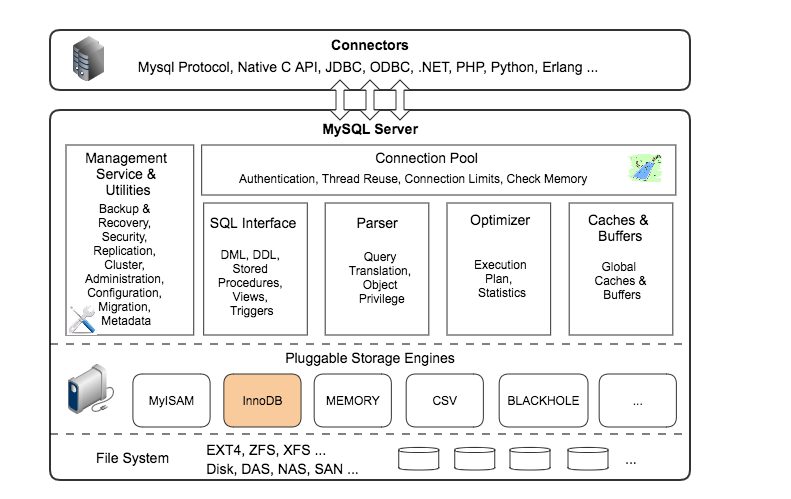
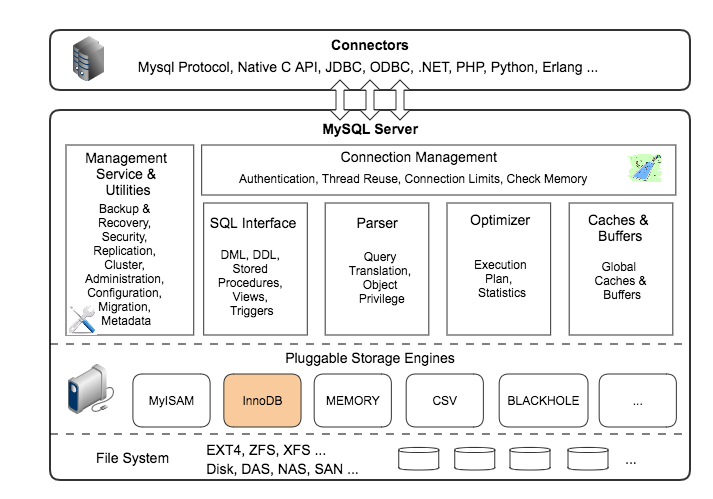
add post mysql-architecture

diff --git a/_posts/2016-06-24-mysql-architecture.md b/_posts/2016-06-24-mysql-architecture.md
@@ -1,0 +1,233 @@
+---
+layout: post
+title: "MySQL的多存储引擎架构"
+description: ""
+category: 
+tags: []
+---
+{% include JB/setup %}
+
+支持多种存储引擎是众所周知的MySQL特性，也是MySQL架构的关键优势之一。如果能够理解MySQL Server与存储引擎之间是怎样通过API交互的，将大大有利于理解MySQL的核心基础架构。本文将首先介绍MySQL的整体逻辑架构，然后分析MySQL的存储引擎API并介绍如何编写自己的MySQL存储引擎。
+
+### MySQL逻辑架构
+
+MySQL作为一个大型的网络程序、数据管理系统，架构非常复杂。下图大致画出了其逻辑架构。
+
+![MySQL Architecture](http://zhaox.github.io/assets/images/MySQL.png)
+
+#### Connectors
+
+MySQL首先是一个网络程序，其在TCP之上定义了自己的[应用层协议](https://dev.mysql.com/doc/internals/en/client-server-protocol.html)。所以要使用MySQL，我们可以编写代码，跟MySQL Server建立TCP连接，之后按照其定义好的协议进行交互。当然这样比较麻烦，比较方便的办法是调用SDK，比如Native C API、JDBC、PHP等各语言MySQL Connector，或者通过ODBC。但通过SDK来访问MySQL，本质上还是在TCP连接上通过MySQL协议跟MySQL进行交互。
+
+#### Connection Management
+
+每一个基于TCP的网络服务都需要管理客户端链接，MySQL也不例外。MySQL会为每一个连接绑定一个线程，之后这个连接上的所有查询都在这个线程中执行。为了避免频繁创建和销毁线程带来开销，MySQL通常会缓存线程或者使用线程池，从而避免频繁的创建和销毁线程。
+
+客户端连接到MySQL后，在使用MySQL的功能之前，需要进行认证，认证基于用户名、主机名、密码。如果用了SSL或者TLS的方式进行连接，还会进行证书认证。
+
+#### SQL Interface
+
+MySQL支持DML（数据操作语言）、DDL（数据定义语言）、存储过程、视图、触发器、自定义函数等多种SQL语言接口。
+
+#### Parser
+
+MySQL会解析SQL查询，并为其创建语法树，并根据数据字典丰富查询语法树，会验证该客户端是否具有执行该查询的权限。创建好语法树后，MySQL还会对SQl查询进行语法上的优化，进行查询重写。
+
+#### Optimizer
+
+语法解析和查询重写之后，MySQL会根据语法树和数据的统计信息对SQL进行优化，包括决定表的读取顺序、选择合适的索引等，最终生成SQL的具体执行步骤。这些具体的执行步骤里真正的数据操作都是通过预先定义好的存储引擎API来进行的，与具体的存储引擎实现无关。
+
+#### Caches & Buffers
+
+MySQL内部维持着一些Cache和Buffer，比如Query Cache用来缓存一条Select语句的执行结果，如果能够在其中找到对应的查询结果，那么就不必再进行查询解析、优化和执行的整个过程了。
+
+#### Pluggable Storage Engine
+
+存储引擎的具体实现，这些存储引擎都实现了MySQl定义好的存储引擎API的部分或者全部。MySQL可以动态安装或移除存储引擎，可以有多种存储引擎同时存在，可以为每个Table设置不同的存储引擎。存储引擎负责在文件系统之上，管理表的数据、索引的实际内容，同时也会管理运行时的Cache、Buffer、事务、Log等数据和功能。
+
+MySQL 5.7.11默认支持的存储引擎如下：
+
+```
+mysql> show engines;
++--------------------+---------+----------------------------------------------------------------+--------------+------+------------+
+| Engine             | Support | Comment                                                        | Transactions | XA   | Savepoints |
++--------------------+---------+----------------------------------------------------------------+--------------+------+------------+
+| InnoDB             | DEFAULT | Supports transactions, row-level locking, and foreign keys     | YES          | YES  | YES        |
+| MRG_MYISAM         | YES     | Collection of identical MyISAM tables                          | NO           | NO   | NO         |
+| MEMORY             | YES     | Hash based, stored in memory, useful for temporary tables      | NO           | NO   | NO         |
+| BLACKHOLE          | YES     | /dev/null storage engine (anything you write to it disappears) | NO           | NO   | NO         |
+| MyISAM             | YES     | MyISAM storage engine                                          | NO           | NO   | NO         |
+| CSV                | YES     | CSV storage engine                                             | NO           | NO   | NO         |
+| ARCHIVE            | YES     | Archive storage engine                                         | NO           | NO   | NO         |
+| PERFORMANCE_SCHEMA | YES     | Performance Schema                                             | NO           | NO   | NO         |
+| FEDERATED          | NO      | Federated MySQL storage engine                                 | NULL         | NULL | NULL       |
++--------------------+---------+----------------------------------------------------------------+--------------+------+------------+
+
+```
+
+#### File System
+
+所有的数据，数据库、表的定义，表的每一行的内容，索引，都是存在文件系统上，以文件的方式存在的。当然有些存储引擎比如InnoDB，也支持不使用文件系统直接管理裸设备，但现代文件系统的实现使得这样做没有必要了。
+
+在文件系统之下，可以使用本地磁盘，可以使用DAS、NAS、SAN等各种存储系统。
+
+
+### 存储引擎API
+
+MySQL定义了一系列存储引擎API，以支持插件式存储引擎架构。API以Handler类的虚函数的方式存在，可在[代码库](https://github.com/mysql/mysql-server)下的./sql/handler.h中查看详细信息，可在handler类的注释中看到描述：
+
+``` c++
+
+/**
+  The handler class is the interface for dynamically loadable
+  storage engines. Do not add ifdefs and take care when adding or
+  changing virtual functions to avoid vtable confusion
+
+  Functions in this class accept and return table columns data. Two data
+  representation formats are used:
+  1. TableRecordFormat - Used to pass [partial] table records to/from
+     storage engine
+
+  2. KeyTupleFormat - used to pass index search tuples (aka "keys") to
+     storage engine. See opt_range.cc for description of this format.
+
+  TableRecordFormat
+  =================
+  [Warning: this description is work in progress and may be incomplete]
+  The table record is stored in a fixed-size buffer:
+
+    record: null_bytes, column1_data, column2_data, ...
+
+  //篇幅原因，略去部分内容。
+
+*/
+class handler :public Sql_alloc
+{
+    //篇幅原因，不列出具体代码。读者可直接在源码文件./sql/handler.h中找到具体内容。
+}
+
+```
+
+下面我将分类描述部分存储引擎API。
+
+#### 创建、打开和关闭表
+
+通过函数create来创建一个table：
+
+``` c++
+
+/**
+  *name：要创建的表的名字
+  *from：一个TABLE类型的结构，要创建的表的定义，跟MySQL Server已经创建好的tablename.frm文件内容是匹配的
+  *info：一个HA_CREATE_INFO类型的结构，包含了客户端输入的CREATE TABLE语句的信息
+*/
+
+int create(const char *name, TABLE *form, HA_CREATE_INFO *info);
+
+```
+
+通过函数open来打开一个table：
+
+``` c++
+
+/**
+  mode包含以下两种
+  O_RDONLY  -  Open read only
+  O_RDWR    -  Open read/write
+*/
+int open(const char *name, int mode, int test_if_locked);
+
+```
+
+通过函数close来关闭一个table：
+
+``` c++
+
+int close(void);
+
+```
+
+#### 对表加锁
+
+当客户端调用LOCK TABLE时，通过external_lock函数加锁：
+
+``` c++
+
+int ha_example::external_lock(THD *thd, int lock_type)
+
+```
+
+#### 全表扫描
+
+``` c++
+
+//初始化全表扫描
+virtual int rnd_init (bool scan);
+
+//从表中读取下一行
+virtual int rnd_next (byte* buf);
+
+```
+
+#### 通过索引访问table内容
+
+``` c++
+
+//使用索引前调用该方法
+int ha_foo::index_init(uint keynr, bool sorted) 
+
+
+//使用索引后调用该方法
+int ha_foo::index_end(uint keynr, bool sorted)
+
+//读取索引第一条内容
+int ha_index_first(uchar * buf);
+
+//读取索引下一条内容
+int ha_index_next(uchar * buf);
+
+//读取索引前一条内容
+int ha_index_prev(uchar * buf);
+
+//读取索引最后一条内容
+int ha_index_last(uchar * buf);
+
+//给定一个key基于索引读取内容
+int index_read(uchar * buf, const uchar * key, uint key_len,
+                         enum ha_rkey_function find_flag)
+```
+
+#### 事务处理
+
+``` c++
+
+//开始一个事务
+int my_handler::start_stmt(THD *thd, thr_lock_type lock_type)
+
+//回滚一个事务
+int (*rollback)(THD *thd, bool all); 
+
+//提交一个事务
+int (*commit)(THD *thd, bool all);
+
+```
+
+### 如何编写自己的存储引擎
+
+在MySQL的官方文档上，有对于编写自己的存储引擎的指导文档，链接[如下](http://dev.mysql.com/doc/internals/en/custom-engine.html)。
+
+作为编写自己存储引擎的开始，你可以查看MySQL源码库中的一个[EXAMPLE存储引擎](https://github.com/mysql/mysql-server/tree/5.7/storage/example)，它实现了必须要实现的存储引擎API，可以通过复制它们作为编写我们自己存储引擎的开始：
+
+``` c++
+
+sed -e s/EXAMPLE/FOO/g -e s/example/foo/g ha_example.h > ha_foo.h
+sed -e s/EXAMPLE/FOO/g -e s/example/foo/g ha_example.cc > ha_foo.cc
+
+```
+
+### Reference
+[http://www.datadisk.co.uk/html_docs/mysql/architecture.htm](http://www.datadisk.co.uk/html_docs/mysql/architecture.htm)
+[MySQL Docs](http://dev.mysql.com/doc/)
+[高性能网络编程]()
+
+
